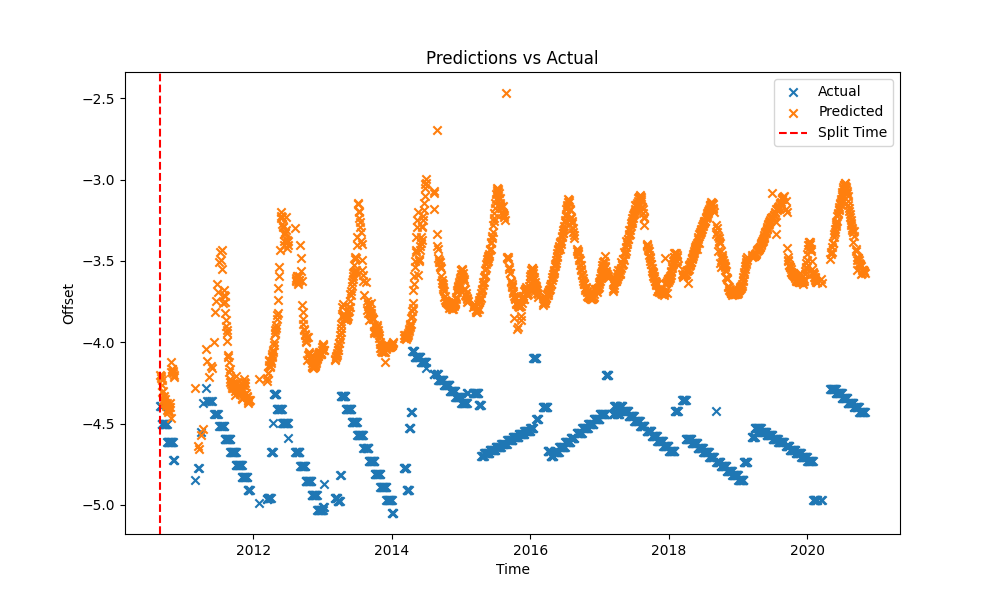
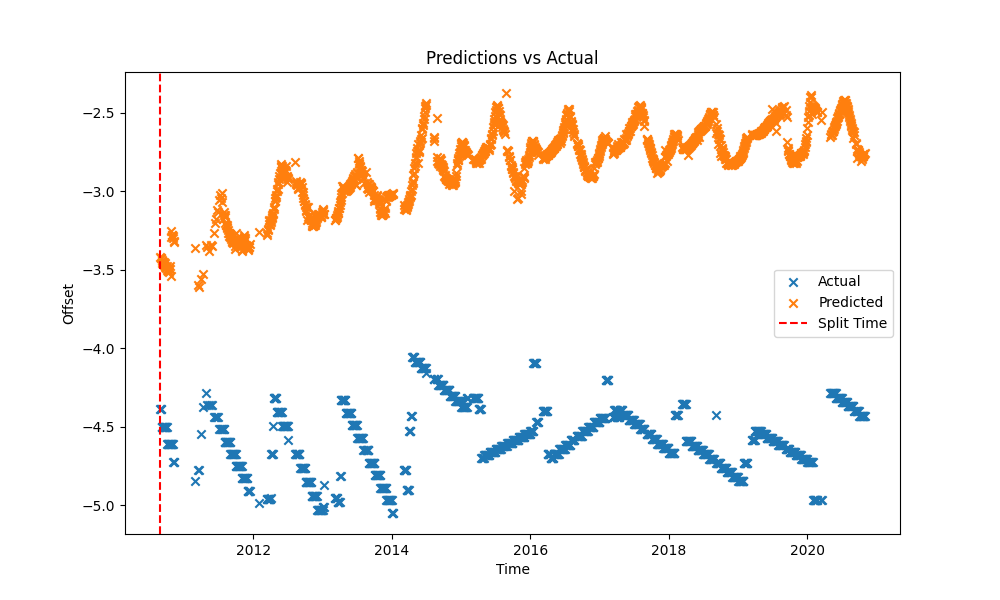
Auto-commit

diff --git a/Spin Axis NN Cal/datasplit.py b/Spin Axis NN Cal/datasplit.py
@@ -131,7 +131,7 @@ def x_axis_create_and_split_data(orbits, sc, training_years):
         if (month == 1 or month == 2 or month == 3 or month == 4):
             pass
         else: #If the data is interpolated, don't use it
-            data_interp_marker = False
+            data_interp_marker = True
 
         #Classify data into test and train periods
         if (orbit_start_time > split_time): #Find orbits that start after the split time

diff --git a/Spin Axis NN Cal/xAxisBasicNNCal.py b/Spin Axis NN Cal/xAxisBasicNNCal.py
@@ -112,6 +112,9 @@ def train_test_model(n_epochs=100, batch_size=10, sc=1, years=15):
     plt.legend()
     plt.savefig("./Outputs_X_Axis/C{}/NN/Basic NN {} years {} epochs.png".format(sc+1, years, n_epochs))
 
+
+train_test_model(n_epochs=50, batch_size=10, sc=0, years=10)
+
 # #%% Loop over all spacecraft
 # for spacecraft in range(0,4):
 #   # Loop over x and y axis
